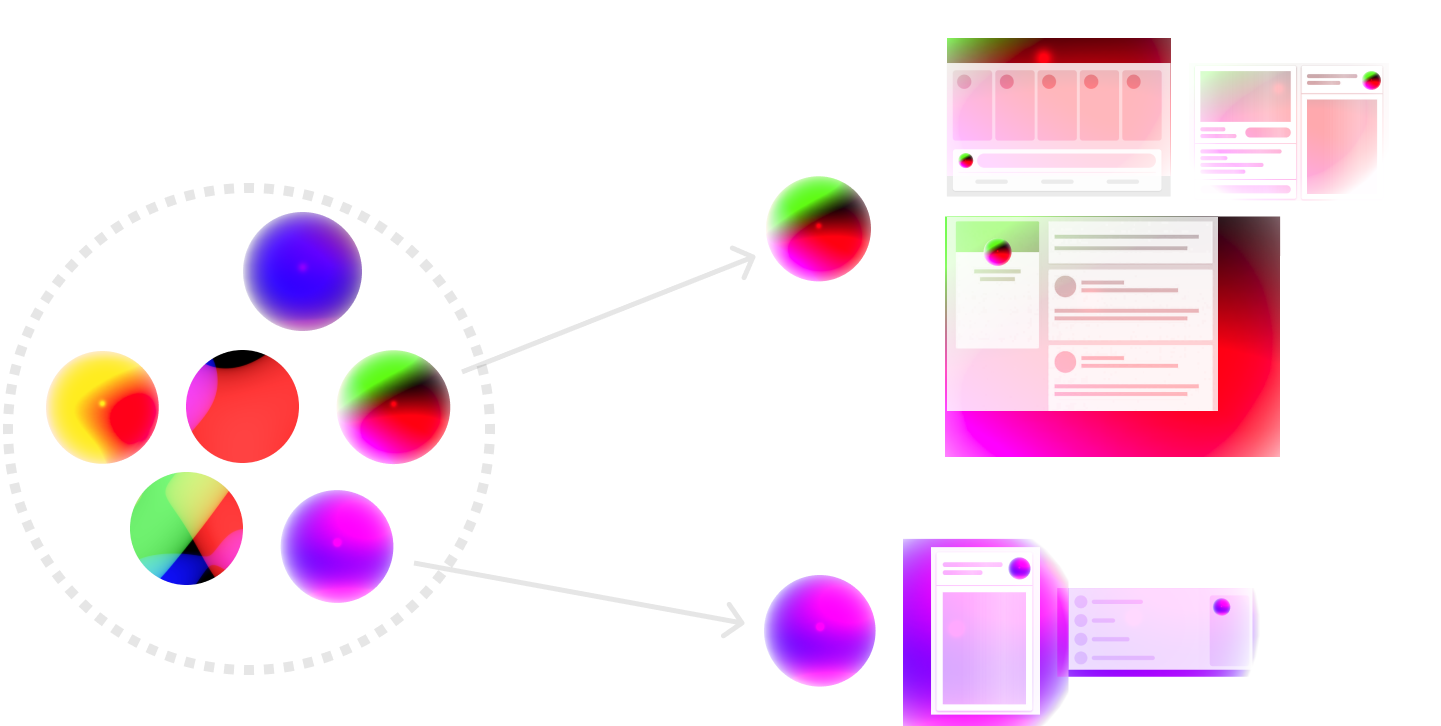
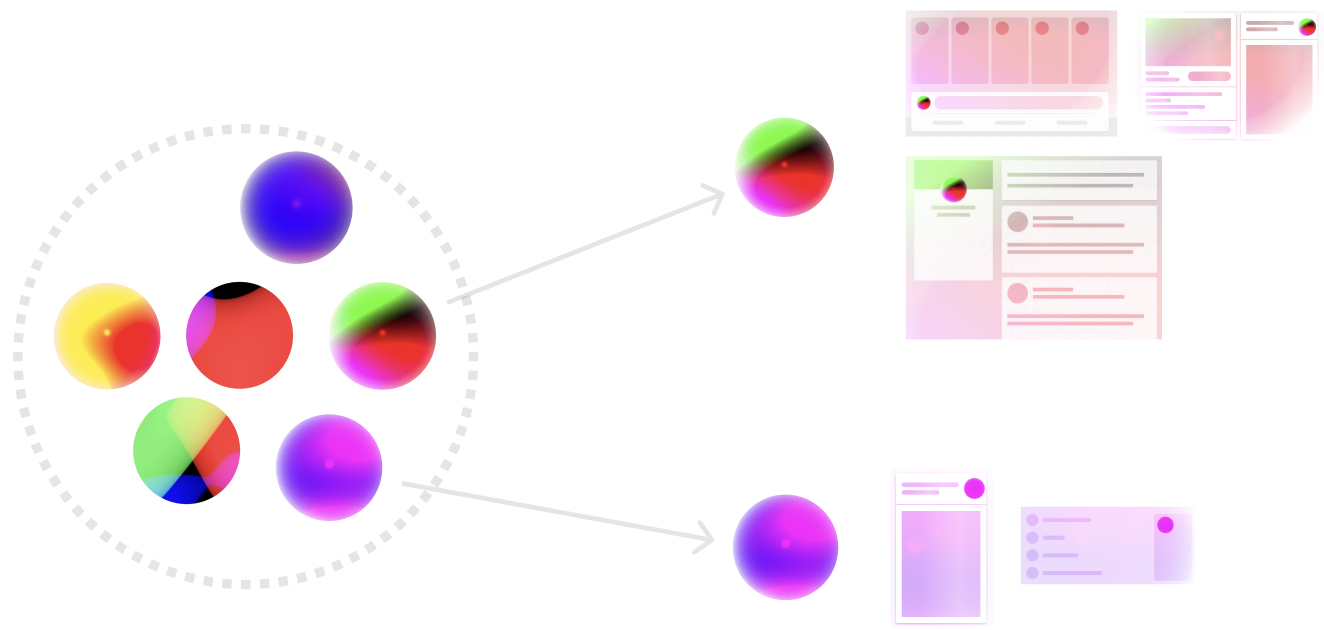
more

diff --git a/src/app/portfolio/OntologySection.js b/src/app/portfolio/OntologySection.js
@@ -26,8 +26,8 @@ const OntologySection = () => {
           src="/vibe-based-computing/mediaelements.png"
           alt="Media Elements, platform agnostic: Image, Video, Audio, Text"
           className={styles.media_img}
-          width={500}
-          height={206}
+          width={500 * 0.95}
+          height={206 * 0.95}
           style={{
             // opacity: isElementsVisible ? 1 : 0,
             transition: "opacity .3s ease-in-out",
@@ -79,18 +79,15 @@ const OntologySection = () => {
             primitive that is truly owned by the user.
           </p>
           <p>
-            Vibes have two modalities for interacting with AI: push and pull.
-            Vibes can <em>push</em> their Media Objects to models for analysis,
-            and they can <em>pull</em> new Media Objects from models to add to
-            their contents, in similar fashion to a recommendation algorithm
-            filling a content feed.
-          </p>
-          <p>
             On a code level, Vibes function as a technical standard for
-            developers to build apps on top of Generative AI. In a Vibe-based
-            Computing ecosystem, users can take any Vibe they own and upload it
-            to an app which connects it to different generative models to read
-            and transforms its contents.
+            developers to build apps on top of Generative AI. Vibes have two
+            modalities for interacting with AI: push and pull. Vibes can{" "}
+            <em>push</em> their Media Objects to models for analysis, and they
+            can <em>pull</em> new Media Objects from models to add to their
+            contents, in similar fashion to a recommendation algorithm filling a
+            content feed. In a Vibe-based Computing ecosystem, users can take
+            any Vibe they own and upload it to an app which connects it to
+            different generative models to read and transforms its contents.
             {/* The strength of this
             model comes from the universal interface the Vibe defines. By
             describing all internet content in terms of its constituent
@@ -129,13 +126,12 @@ const OntologySection = () => {
           </p>
           <p>
             As we apply Vibes to more complex arrangements of models, use cases
-            emerge beyond simple content creation. For example, imagine a music
-            playlist generator that works by the user pushing a series of
-            Instagram media objects to a model that builds an understanding of
-            their content and then maps that understanding to a music model's
-            latent space from which a list of songs is generated that gets
-            pulled into a new Vibe. This app would let any user see what music
-            matches the vibe of their Instagram.
+            emerge beyond simple content creation. For example, imagine a series
+            of LLMs each fed the same Vibe as an input where the first model
+            generates a color scheme, the next generates a typography pairing,
+            and so on for all of the components of a design system. This
+            constitutes an AI-powered theming engine that a user composes a Vibe
+            with to generate the design for a personalized web page.
           </p>
         </div>
         <div style={{ width: 24 }} />
@@ -143,7 +139,7 @@ const OntologySection = () => {
           src="/vibe-based-computing/vibeperson.png"
           alt="Algorithm based off of different vibes user selects and their interaction with content"
           width={550 * 1.05}
-          height={277 * 1.05}
+          height={262 * 1.05}
           className={styles.media_img}
           style={{
             // marginRight: "auto",
@@ -156,13 +152,16 @@ const OntologySection = () => {
       <div className={styles.row}>
         <div className={styles.row__smalltext}>
           <p>
-            Vibes are objects that think fast and slow. object presented to the
-            user which evolves with their interaction. This co-creative process
-            between user and AI is key to a Vibe feeling at once intimately
-            personal and vibrantly alive. Every Vibe begins its life by using AI
-            to build an understanding of the initial Media Objects it is
-            supplied, but then learns a deeper understanding over time from how
-            the user engages with it.
+            Vibes are objects that “think fast and slow”. The semanitc context
+            provided by generative models allow Vibes to build an understanding
+            of the Media Object it holds, but then bespoke models and heuristic
+            algorithms can be used to evolve the Vibe as the user interacts with
+            it. This co-creative process between user and AI is key to a Vibe
+            feeling at once intimately personal and vibrantly alive.
+            {/* Every Vibe
+            begins its life by using AI to build an understanding of the initial
+            Media Objects it is supplied, but then learns a deeper understanding
+            over time from how the user engages with it. */}
           </p>
         </div>
         <div style={{ width: 64 }} />

diff --git a/src/app/portfolio/DiagramSection.js b/src/app/portfolio/DiagramSection.js
@@ -71,10 +71,9 @@ const DiagramSection = () => {
       <div className={styles.fulltext}>
         <p>
           Now that the Vibe has been formally defined, we can begin to explore
-          how the primtive can open up novel modalities for Human-Comptuer
-          Interaction. When applied to UI/UX, Vibes function as a new organizing
-          principle for computer applications which can be explored in a variety
-          of domains.
+          its implications for the web. For example, when applied to UI/UX,
+          Vibes function as a powerful organizing principle for computer
+          applications which can be applied in a variety of domains.
         </p>
       </div>
       <div style={{ height: 24 }} />

diff --git a/src/app/portfolio/IntroSection.js b/src/app/portfolio/IntroSection.js
@@ -66,7 +66,7 @@ const IntroSection = () => {
         <p style={{ fontSize: 26.5 }}>
           Generative AI alters the physics of content on the internet. While
           before an image or a text post could only be understood by computers
-          when it was crossreferenced against how thousands of platform-specific
+          when it was crossreferenced against thousands of platform-specific
           user interactions with it, now generatives models are able to build
           these kinds of semantic connections directly from the media itself.
           This means users can now search, discover, and transform digital media

diff --git a/src/app/portfolio/ScreenshotSection.js b/src/app/portfolio/ScreenshotSection.js
@@ -47,7 +47,7 @@ const ScreenshotSection = () => {
               }}
               className={styles.screenshot_headertext}
             >
-              A People Vibe UI
+              Generating a Music Vibe
             </h4>
             <p>
               People Vibes organize the user&rsquo;s relationships through a
